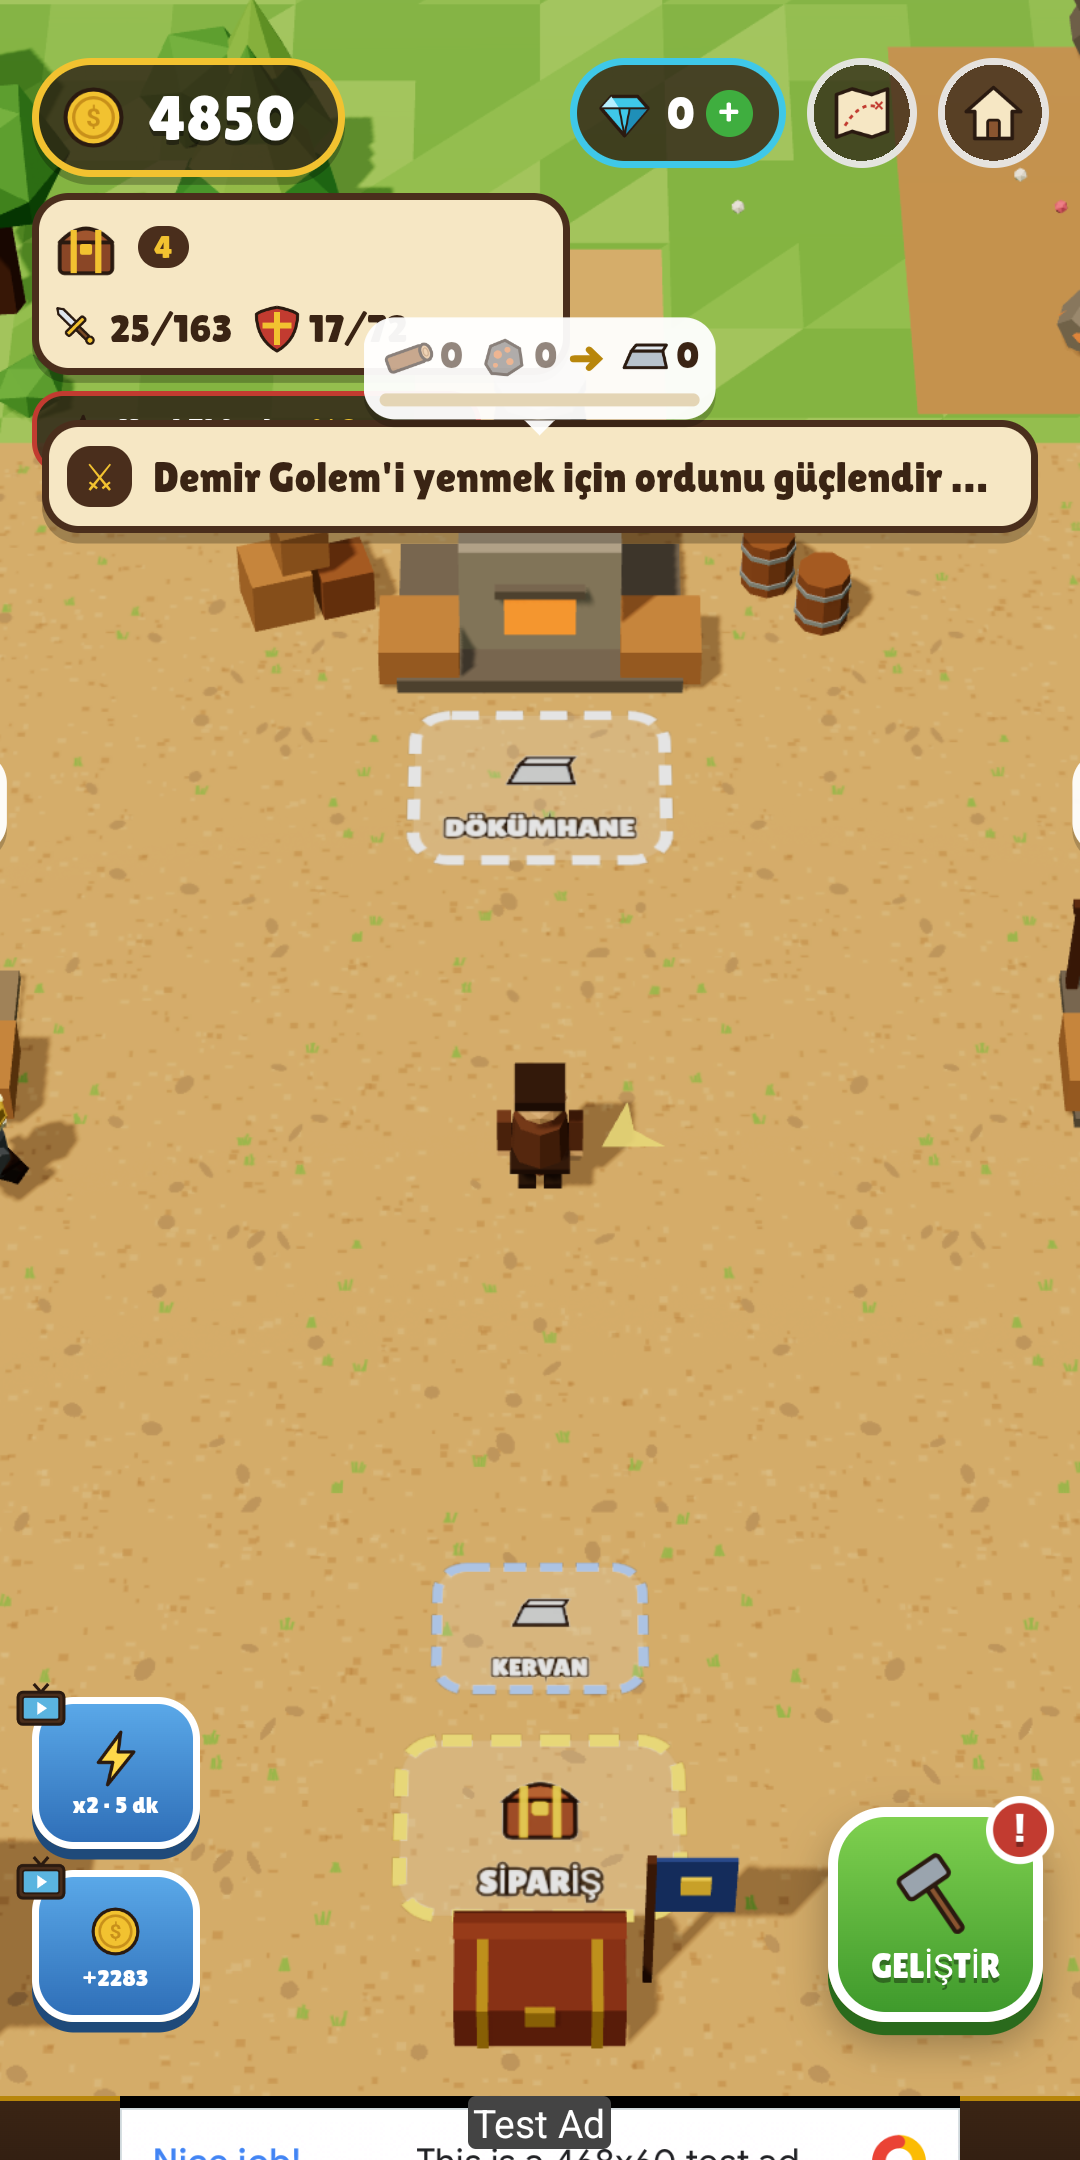
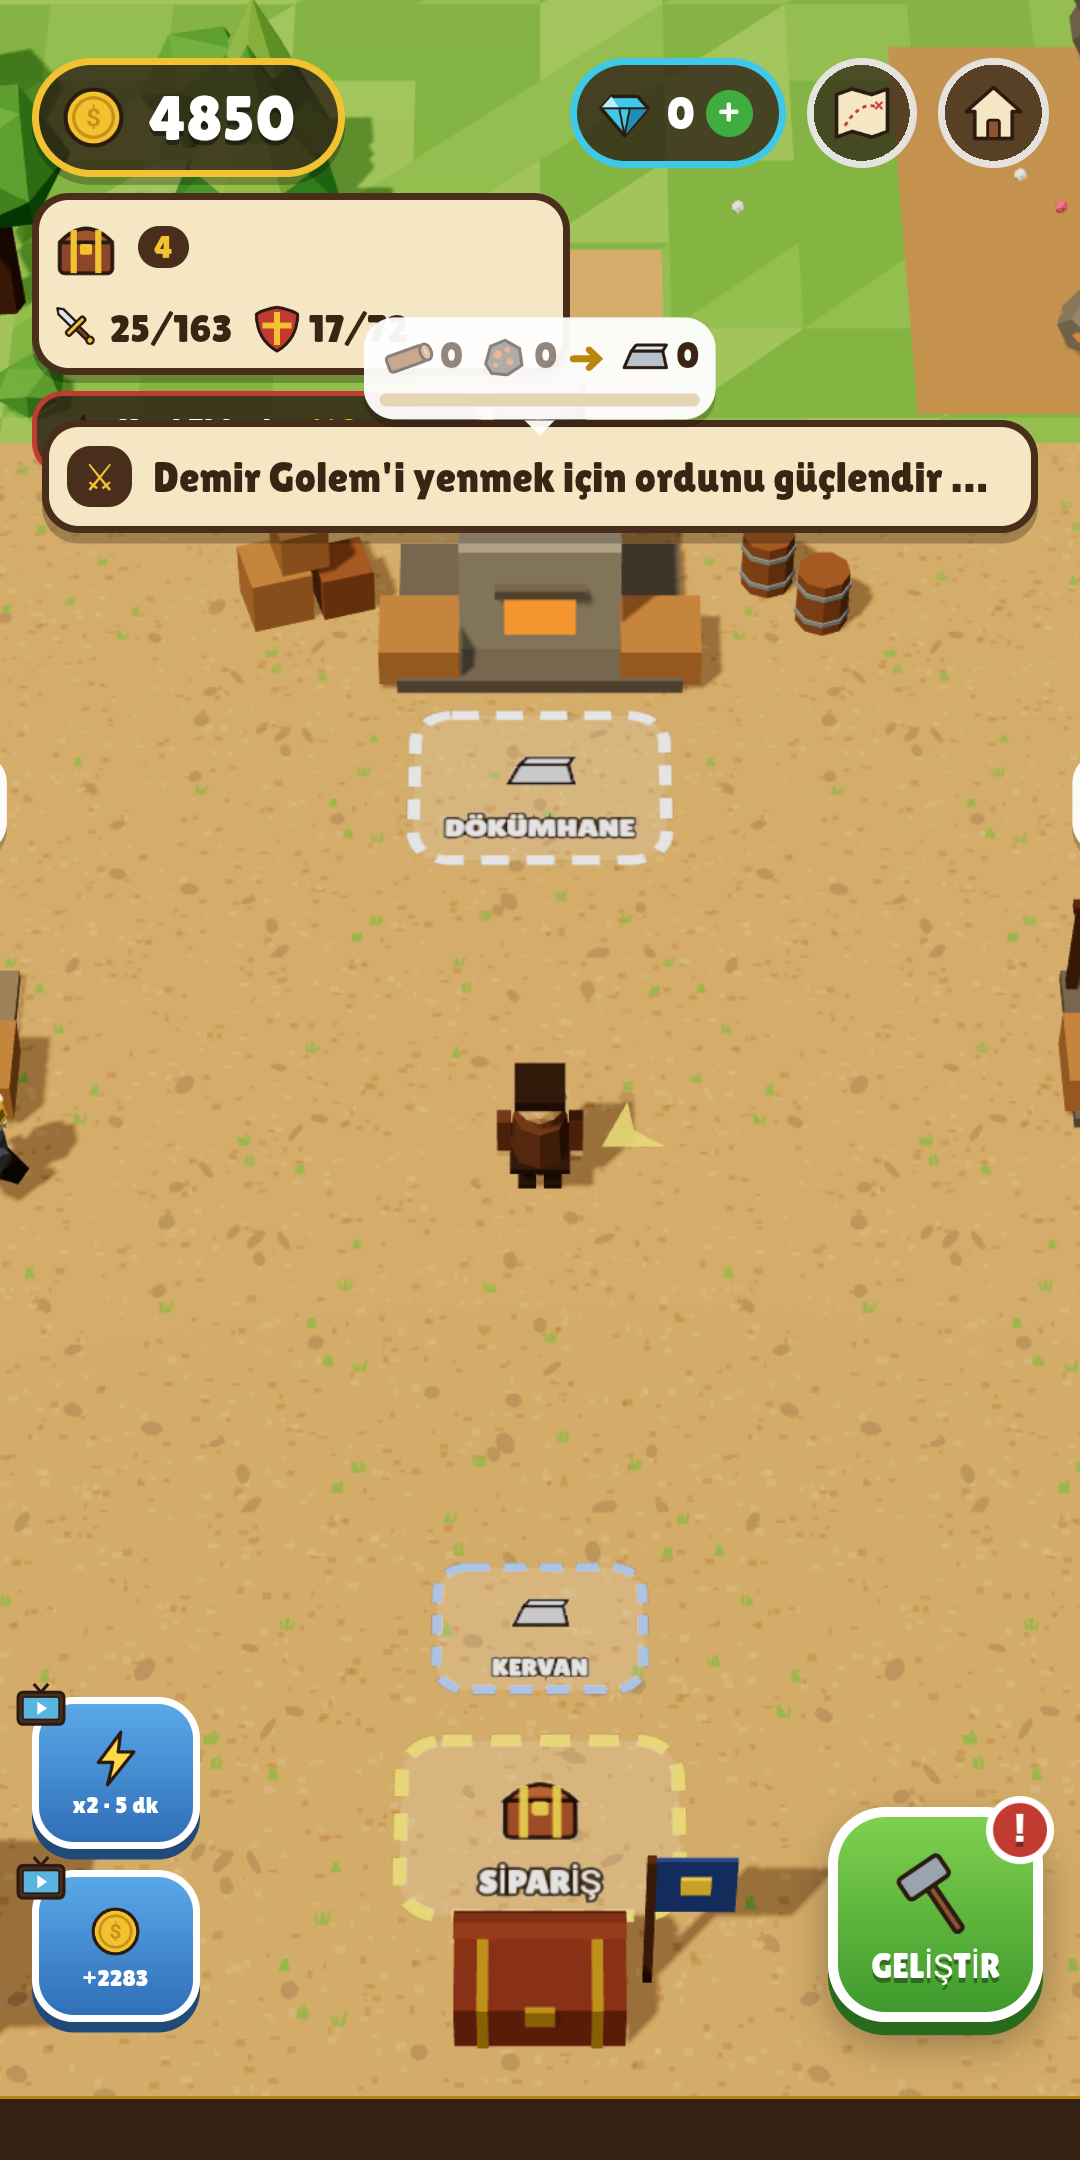
Tacir beyanı için Hizmet Şartları ve tanıtım sayfası
- docs/terms.html: Türkçe/İngilizce Hizmet Şartları (sanal elmaslar, Google Play iadeleri, kurallar, hesap silme, sorumluluk, uygulanacak hukuk)
- docs/index.html: oyun tanıtım sayfası (simge, ekran görüntüleri, özellikler, Play bağlantısı, yasal sayfalar)
- Gizlilik sayfasına ve oyundaki Ayarlar > Gizlilik bölümüne Hizmet Şartları bağlantısı
- Atölye mağaza ekran görüntüsündeki test reklam bandı temizlendi

Changed region(s): [[0.0917, 0.9616, 0.8861, 1.0]]

diff --git a/docs/terms.html b/docs/terms.html
@@ -1,0 +1,89 @@
+<!doctype html>
+<html lang="tr">
+<head>
+  <meta charset="UTF-8" />
+  <meta name="viewport" content="width=device-width, initial-scale=1" />
+  <title>Forge Master · Hizmet Şartları</title>
+  <style>
+    :root { --bg: #fbf6ea; --ink: #2b1d14; --muted: #6b5644; --line: #e3d6bd; --accent: #a5531c; }
+    @media (prefers-color-scheme: dark) { :root { --bg: #1d150f; --ink: #f3e7d1; --muted: #bba78e; --line: #3a2c20; --accent: #f0a050; } }
+    body { margin: 0; background: var(--bg); color: var(--ink); font: 16px/1.6 system-ui, -apple-system, "Segoe UI", sans-serif; }
+    main { max-width: 760px; margin: 0 auto; padding: 32px 16px 64px; }
+    h1 { font-size: 28px; margin: 0 0 4px; }
+    h2 { font-size: 20px; margin: 28px 0 8px; }
+    .muted { color: var(--muted); }
+    a { color: var(--accent); }
+    hr { border: 0; border-top: 1px solid var(--line); margin: 48px 0; }
+    nav a { margin-right: 12px; }
+  </style>
+</head>
+<body>
+<main>
+  <nav><a href="#tr">Türkçe</a><a href="#en">English</a></nav>
+
+  <section id="tr">
+    <h1>Forge Master Hizmet Şartları</h1>
+    <p class="muted">Son güncelleme: 4 Kasım 2026 · Geliştirici: Leron Software (Çağdaş Arslan)</p>
+
+    <p>Bu şartlar, Forge Master mobil oyununu (“Oyun”) kullanımınızı düzenler. Oyunu indirerek ya da oynayarak bu şartları kabul etmiş olursunuz. Kişisel verilerinizin nasıl işlendiği <a href="privacy.html">Gizlilik Politikası</a>'nda açıklanmıştır.</p>
+
+    <h2>1. Oyun ve hesap</h2>
+    <p>Oyun ücretsizdir. İlk açılışta sizin için otomatik bir oyuncu hesabı oluşturulur; isterseniz Google hesabınızı bağlayabilirsiniz. Hesabınızın ve cihazınızın güvenliğinden siz sorumlusunuz. Oyunu kullanmak için en az 13 yaşında olmalısınız.</p>
+
+    <h2>2. Elmaslar ve uygulama içi satın almalar</h2>
+    <p>Elmaslar ve oyundaki diğer öğeler yalnızca Oyun içinde kullanılabilen sanal öğelerdir; gerçek paraya çevrilemez, başka hesaba aktarılamaz ve satılamaz. Satın almalar Google Play üzerinden yapılır ve Google Play'in ödeme ve iade koşullarına tabidir. Elmaslar satın alındığı anda hesabınıza teslim edildiğinden, yürürlükteki tüketici mevzuatının izin verdiği ölçüde, teslimattan sonra cayma hakkı ve iade bulunmaz. Yasanın tanıdığı haklarınız saklıdır.</p>
+
+    <h2>3. Reklamlar</h2>
+    <p>Oyun reklam gösterir. Ödüllü reklamlar isteğe bağlıdır; ödül, reklam sonuna kadar izlendiğinde verilir. Reklamlar üçüncü taraflarca (Google AdMob) sunulur.</p>
+
+    <h2>4. Kurallar</h2>
+    <p>Oyunu hile, otomasyon, değiştirilmiş uygulama ya da sunucuyu kötüye kullanarak oynamak; sıralamada sahte puan elde etmek; başkalarını rahatsız eden, küfürlü, nefret içeren ya da başkasını taklit eden takma adlar kullanmak yasaktır. Bu kurallara uymayan hesapların takma adı değiştirilebilir, sıralamadan çıkarılabilir ya da hesabı kapatılabilir.</p>
+
+    <h2>5. Sıralama ve oyun içeriği</h2>
+    <p>Güç puanı ve sıralamalar oyun içi eğlence amaçlıdır ve hiçbir ödül, para ya da hak sağlamaz. Oyunu, dengesini, içeriğini ve özelliklerini önceden haber vermeden değiştirebiliriz.</p>
+
+    <h2>6. Hesabın silinmesi ve hizmetin sona ermesi</h2>
+    <p>Hesabınızı istediğiniz zaman Oyun içindeki Ayarlar'dan ya da <a href="delete-account.html">hesap silme sayfasındaki</a> adımlarla silebilirsiniz; silinen hesap ve içindeki elmaslar geri getirilemez. Oyunu ya da sunucu hizmetini makul bir süre önceden duyurarak sonlandırabiliriz.</p>
+
+    <h2>7. Sorumluluk</h2>
+    <p>Oyun “olduğu gibi” sunulur. Kesintisiz ya da hatasız çalışacağını garanti etmeyiz. Yasanın izin verdiği ölçüde, Oyunun kullanımından doğan dolaylı zararlardan sorumlu değiliz. Bu madde, yasanın sınırlanmasına izin vermediği sorumlulukları etkilemez.</p>
+
+    <h2>8. Değişiklikler, hukuk ve iletişim</h2>
+    <p>Bu şartları güncelleyebiliriz; güncel hali bu sayfada yayınlanır. Bu şartlara Türkiye Cumhuriyeti hukuku uygulanır; tüketici olarak ikamet ettiğiniz ülkenin zorunlu tüketici kuralları saklıdır. Sorularınız için: <a href="mailto:leronsoftware@gmail.com">leronsoftware@gmail.com</a></p>
+  </section>
+
+  <hr />
+
+  <section id="en">
+    <h1>Forge Master Terms of Service</h1>
+    <p class="muted">Last updated: November 4, 2026 · Developer: Leron Software (Çağdaş Arslan)</p>
+
+    <p>These terms govern your use of the Forge Master mobile game (“the Game”). By downloading or playing the Game you agree to these terms. How your personal data is handled is described in the <a href="privacy.html">Privacy Policy</a>.</p>
+
+    <h2>1. The Game and your account</h2>
+    <p>The Game is free to play. A player account is created for you automatically on first launch; you may link your Google account. You are responsible for the security of your account and device. You must be at least 13 years old to use the Game.</p>
+
+    <h2>2. Gems and in-app purchases</h2>
+    <p>Gems and other in-game items are virtual items usable only within the Game; they have no cash value and cannot be exchanged for money, transferred or sold. Purchases are made through Google Play and are subject to Google Play's payment and refund terms. Because gems are delivered to your account immediately, to the extent permitted by applicable consumer law there is no right of withdrawal or refund after delivery. Your statutory rights are not affected.</p>
+
+    <h2>3. Ads</h2>
+    <p>The Game shows ads. Rewarded ads are optional; the reward is given when the ad is watched to the end. Ads are served by a third party (Google AdMob).</p>
+
+    <h2>4. Rules</h2>
+    <p>Cheating, automation, modified apps or abuse of the server; obtaining fake leaderboard scores; and nicknames that are offensive, abusive, hateful or impersonate others are not allowed. Accounts that break these rules may have their nickname changed, be removed from the leaderboard or be closed.</p>
+
+    <h2>5. Leaderboards and game content</h2>
+    <p>Power scores and leaderboards are for in-game entertainment only and grant no prizes, money or rights. We may change the Game, its balance, content and features without prior notice.</p>
+
+    <h2>6. Account deletion and termination</h2>
+    <p>You may delete your account at any time from Settings in the Game or by following the <a href="delete-account.html">account deletion page</a>; a deleted account and its gems cannot be restored. We may discontinue the Game or its server service with reasonable prior notice.</p>
+
+    <h2>7. Liability</h2>
+    <p>The Game is provided “as is”. We do not guarantee that it will be uninterrupted or error-free. To the extent permitted by law, we are not liable for indirect damages arising from use of the Game. This does not affect liability that cannot be limited by law.</p>
+
+    <h2>8. Changes, governing law and contact</h2>
+    <p>We may update these terms; the current version is published on this page. These terms are governed by the laws of the Republic of Türkiye; mandatory consumer rules of your country of residence remain unaffected. Questions: <a href="mailto:leronsoftware@gmail.com">leronsoftware@gmail.com</a></p>
+  </section>
+</main>
+</body>
+</html>

diff --git a/docs/index.html b/docs/index.html
@@ -1,0 +1,76 @@
+<!doctype html>
+<html lang="tr">
+<head>
+  <meta charset="UTF-8" />
+  <meta name="viewport" content="width=device-width, initial-scale=1" />
+  <title>Forge Master: Demirci Krallığı</title>
+  <meta name="description" content="Demirhaneni kur, kılıç döv, bekçileri yen, altı bölgeden bir krallık kur! Android için ücretsiz arcade-idle oyun." />
+  <link rel="icon" href="icon.png" />
+  <style>
+    :root { --bg: #2b1d14; --card: #3a2818; --ink: #f6e7c4; --muted: #c9b38f; --gold: #f2c230; --line: #4e3622; }
+    * { box-sizing: border-box; }
+    body { margin: 0; background: var(--bg); color: var(--ink); font: 16px/1.6 system-ui, -apple-system, "Segoe UI", sans-serif; }
+    main { max-width: 960px; margin: 0 auto; padding: 24px 16px 56px; }
+    .hero { display: grid; grid-template-columns: 160px 1fr; gap: 24px; align-items: center; padding: 24px 0; }
+    .hero img { width: 160px; height: 160px; border-radius: 32px; box-shadow: 0 10px 30px rgba(0,0,0,.4); }
+    h1 { font-size: 34px; line-height: 1.15; margin: 0 0 8px; color: var(--gold); }
+    .tag { font-size: 18px; margin: 0 0 16px; }
+    .btn { display: inline-block; padding: 12px 20px; border-radius: 14px; background: linear-gradient(#7fd04f, #3f9a2c); color: #fff; font-weight: 800; text-decoration: none; box-shadow: 0 4px 0 #2a6a1c; }
+    .lang { float: right; color: var(--muted); }
+    .lang a { color: var(--muted); }
+    .shots { display: grid; grid-template-columns: repeat(4, 1fr); gap: 12px; margin: 24px 0; }
+    .shots img { width: 100%; border-radius: 16px; border: 2px solid var(--line); }
+    .feat { display: grid; grid-template-columns: repeat(2, 1fr); gap: 12px; margin: 24px 0; }
+    .feat div { background: var(--card); border: 1px solid var(--line); border-radius: 16px; padding: 14px 16px; }
+    .feat b { color: var(--gold); display: block; margin-bottom: 2px; }
+    footer { border-top: 1px solid var(--line); margin-top: 32px; padding-top: 16px; color: var(--muted); font-size: 14px; }
+    footer a { color: var(--ink); margin-right: 14px; }
+    @media (max-width: 640px) {
+      .hero { grid-template-columns: 1fr; text-align: center; }
+      .hero img { margin: 0 auto; width: 128px; height: 128px; }
+      .shots { grid-template-columns: repeat(2, 1fr); }
+      .feat { grid-template-columns: 1fr; }
+    }
+  </style>
+</head>
+<body>
+<main>
+  <div class="lang"><a href="#en">English</a></div>
+  <section class="hero">
+    <img src="icon.png" alt="Forge Master simgesi" />
+    <div>
+      <h1>Forge Master: Demirci Krallığı</h1>
+      <p class="tag">Demirhaneni kur, kılıç döv, bekçileri yen, altı bölgeden bir krallık kur!</p>
+      <a class="btn" href="https://play.google.com/store/apps/details?id=com.cagdas.forgemaster">Google Play'den indir</a>
+    </div>
+  </section>
+
+  <section class="shots">
+    <img src="shots/1-menu.jpg" alt="Ana menü" />
+    <img src="shots/2-atolye.jpg" alt="Atölye" />
+    <img src="shots/3-arena.jpg" alt="Bölge bekçisiyle savaş" />
+    <img src="shots/5-harita.jpg" alt="Krallık haritası" />
+  </section>
+
+  <section class="feat">
+    <div><b>⚒ Topla, erit, döv, sat</b>Odun ve maden topla, külçe erit, kılıç ve kalkan döv, işçi tut, atölyeni büyüt.</div>
+    <div><b>🗺 Altı farklı bölge</b>Köyden Ejderha Dağı'na her bölgenin kendi madeni, makineleri ve görünümü var.</div>
+    <div><b>⚔ Bölge bekçileri</b>Zincirli canavarları ordunla yen, yeni bölgelerin yolunu aç.</div>
+    <div><b>🏆 Haftalık düşman ve sıralama</b>Her hafta yeni bir düşman, güç puanınla haftalık ve aylık sıralamada yarış.</div>
+  </section>
+
+  <section id="en">
+    <h2>Forge Master: Blacksmith Kingdom</h2>
+    <p>Build your forge, craft swords, beat the region guardians and unite six regions into one kingdom. Free arcade-idle game for Android, in English and Turkish.</p>
+  </section>
+
+  <footer>
+    <a href="privacy.html">Gizlilik politikası / Privacy</a>
+    <a href="terms.html">Hizmet şartları / Terms</a>
+    <a href="delete-account.html">Hesap silme / Delete account</a>
+    <a href="mailto:leronsoftware@gmail.com">leronsoftware@gmail.com</a>
+    <p>© 2026 Leron Software</p>
+  </footer>
+</main>
+</body>
+</html>

diff --git a/src/ui.js b/src/ui.js
@@ -771,6 +771,7 @@ export class UI {
         <b>${L('Gizlilik', 'Privacy')}</b>
         <div class="set-links">
           <a href="https://cagdasarslan.github.io/forge-master/privacy.html" target="_blank" rel="noopener">${L('Gizlilik politikası', 'Privacy policy')}</a>
+          <a href="https://cagdasarslan.github.io/forge-master/terms.html" target="_blank" rel="noopener">${L('Hizmet şartları', 'Terms of service')}</a>
           ${privacyOptionsAvailable() ? `<button class="link-btn dark" data-set="privacy">${L('Reklam gizlilik seçenekleri', 'Ad privacy options')}</button>` : ''}
         </div>
       </div>

diff --git a/docs/privacy.html b/docs/privacy.html
@@ -20,7 +20,7 @@
 </head>
 <body>
 <main>
-  <nav><a href="#tr">Türkçe</a><a href="#en">English</a></nav>
+  <nav><a href="#tr">Türkçe</a><a href="#en">English</a><a href="terms.html">Hizmet şartları / Terms</a><a href="index.html">Forge Master</a></nav>
 
   <section id="tr">
     <h1>Forge Master Gizlilik Politikası</h1>
